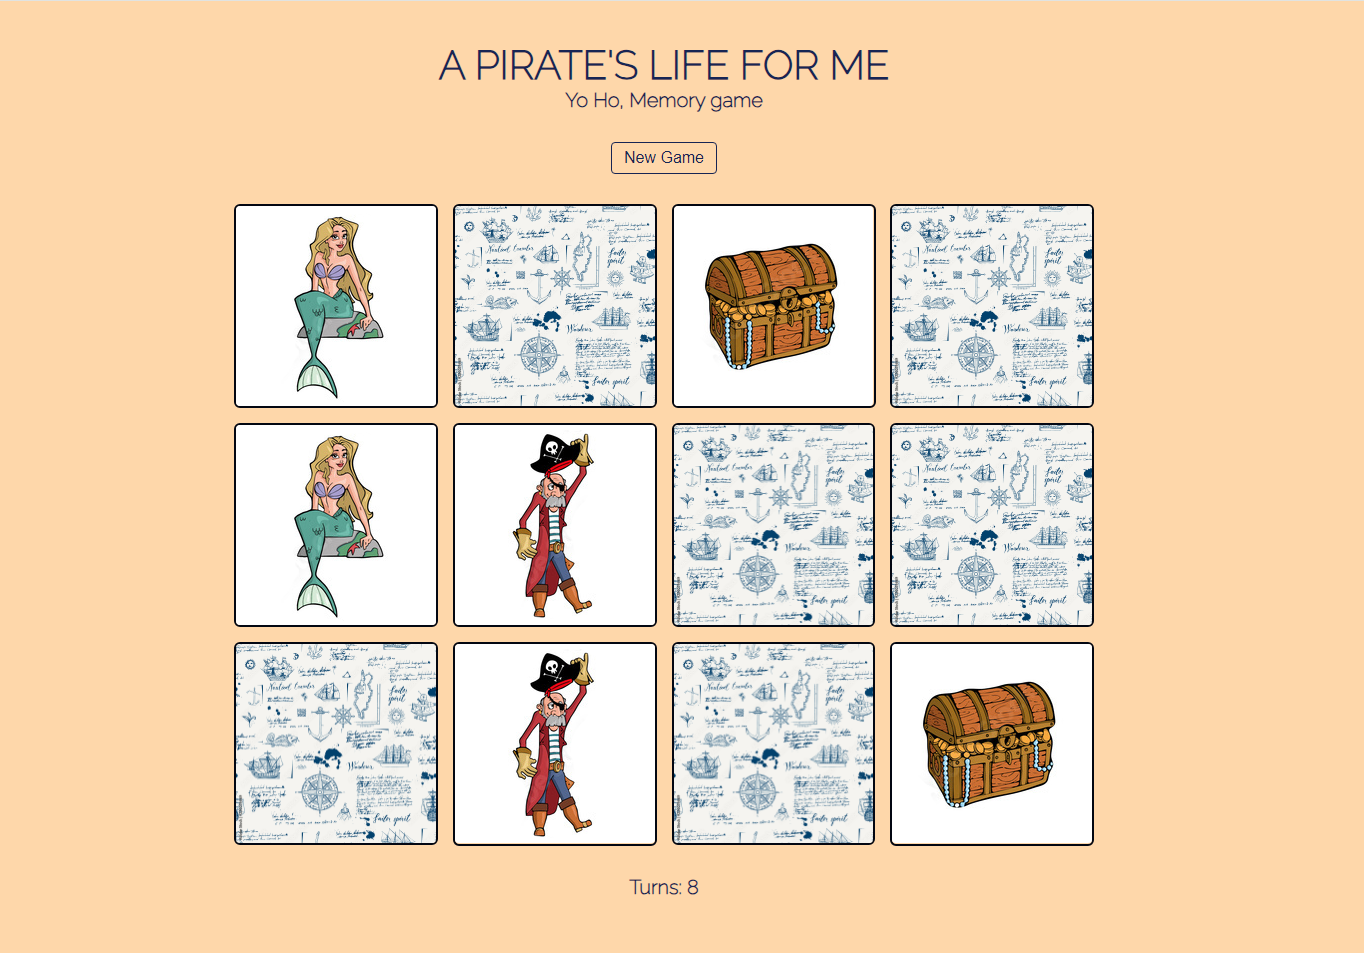
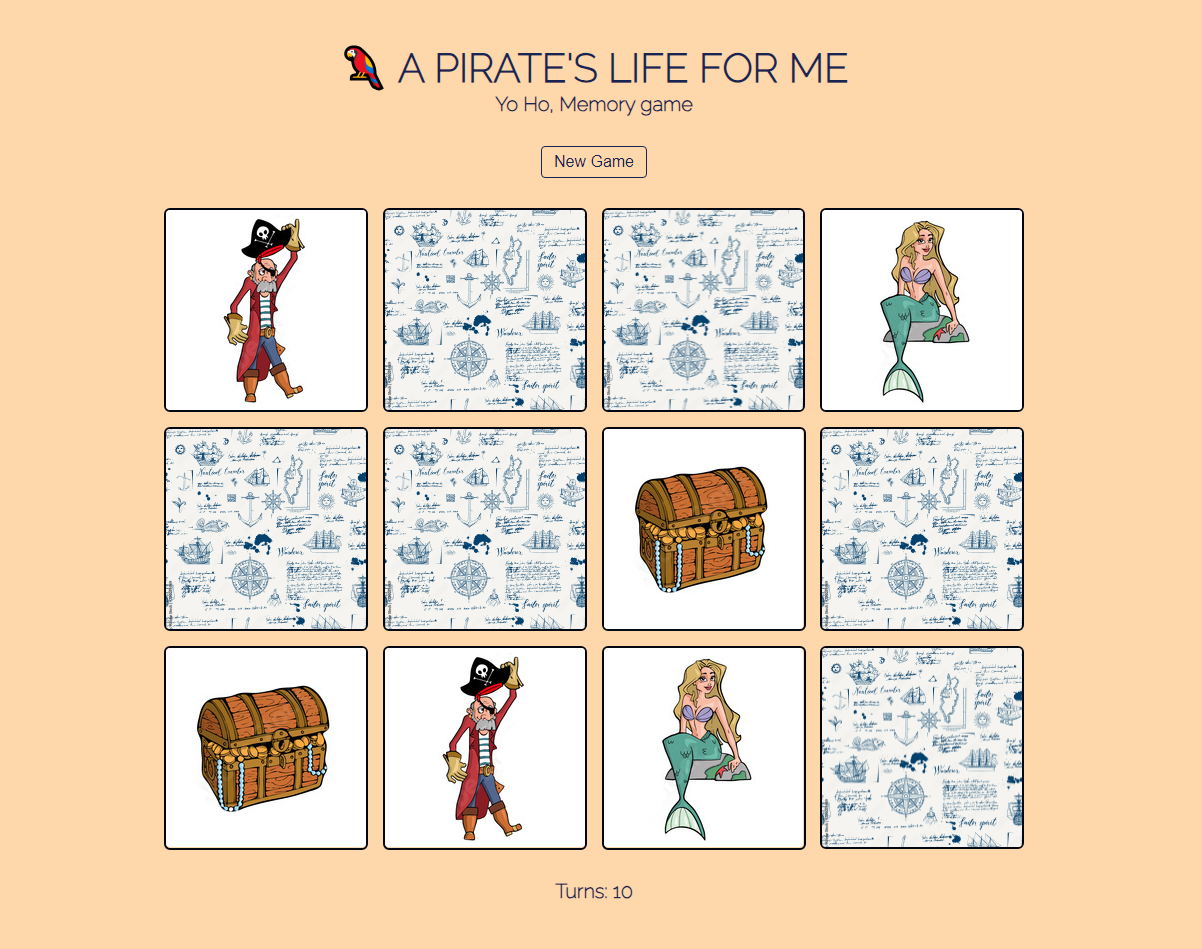
screenshot added

diff --git a/src/App.jsx b/src/App.jsx
@@ -75,7 +75,7 @@ const App = () => {
 
     return (
         <div className="App">
-            <h1>A pirate's life for me</h1>
+            <h1>🦜 A pirate's life for me</h1>
             <p>Yo Ho, Memory game</p>
             <button onClick={shuffleCards}>New Game</button>
         
